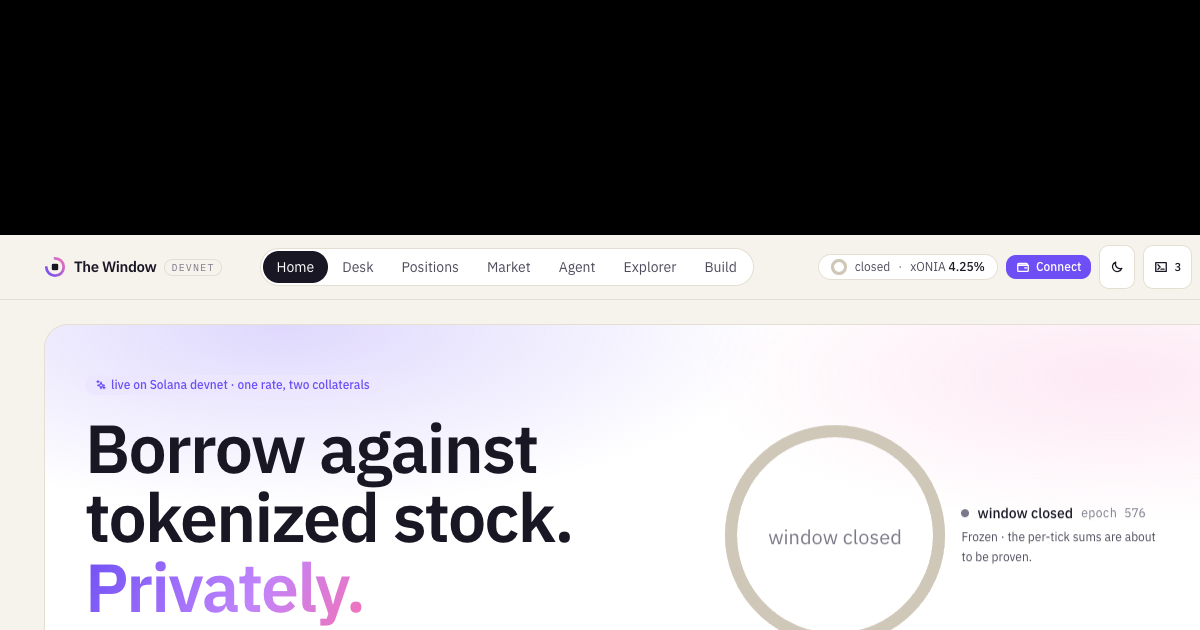
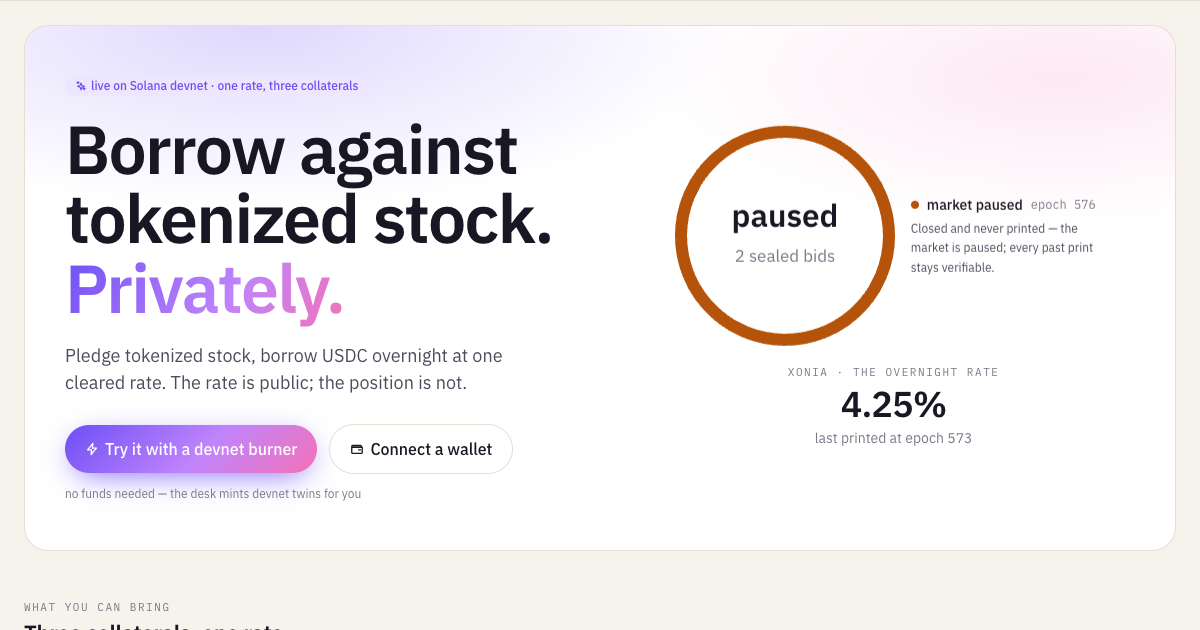
app: the calculator opens on a collateral the chain would take
A first-time visitor's first quote was against listings[0], which today is the Pyth-marked TSLAx —
refused, because Pyth's own account for that feed is a week stale. So the calculator computed a loan
nobody could take, under its own warning saying so. It now opens on the first listing whose mark is
inside its age limit, and falls back to the first when none is. The refused listings stay in the
picker and the schedule above still states every verdict; nothing is hidden, the default is just
useful.

The link preview is now taken at the Open Graph frame itself — a 1200x630 viewport, header scrolled
away — rather than cropped out of a taller screenshot, which had clipped the headline. The driver
lives in scripts/smoke/og.mjs beside the other screenshot drivers, because the hero will change
again.

diff --git a/app/src/features/home/BorrowCalculator.test.tsx b/app/src/features/home/BorrowCalculator.test.tsx
@@ -70,3 +70,37 @@ describe("the borrow calculator", () => {
     expect(t).toContain("past its age limit — the chain would refuse it right now");
   });
 });
+
+describe("which collateral it opens on", () => {
+  // A schedule where the first listing's mark is a week old — the shape the desk is actually in
+  // while Pyth's own account for that feed sits stale.
+  const three = [
+    { ...listings[0], key: "mock_tsla", symbol: "TSLAx-mock" },
+    { ...listings[0], key: "prestocks_anthropic", symbol: "ANTHROPIC-mock", haircutBps: 20000n },
+    { ...listings[0], key: "xstocks_tslax", symbol: "TSLAx-xs" },
+  ];
+  const viewThree = (prices: unknown[]) =>
+    render(
+      <BorrowCalculator
+        listings={three as unknown as Parameters<typeof BorrowCalculator>[0]["listings"]}
+        prices={prices as unknown as Parameters<typeof BorrowCalculator>[0]["prices"]}
+        lastRateTick={8}
+        onStart={vi.fn()}
+      />,
+    ).container.textContent ?? "";
+
+  it("opens on a collateral the chain would accept, not merely the first one", () => {
+    slot.mockReturnValue({ data: 1000 });
+    const t = viewThree([price({ publishTime: BigInt(now - 604_800) }), price(), price()]);
+    // It used to open on listings[0] and quote a loan nobody could take, under its own warning.
+    expect(t).toContain("ANTHROPIC");
+    expect(t).not.toContain("would refuse it right now");
+  });
+
+  it("still opens on the first when none is acceptable, and says so", () => {
+    slot.mockReturnValue({ data: 1000 });
+    const stale = price({ publishTime: BigInt(now - 604_800) });
+    const t = viewThree([stale, stale, stale]);
+    expect(t).toContain("past its age limit — the chain would refuse it right now");
+  });
+});

diff --git a/app/src/features/home/BorrowCalculator.tsx b/app/src/features/home/BorrowCalculator.tsx
@@ -65,7 +65,18 @@ export function BorrowCalculator({
   lastRateTick: number | null;
   onStart: (key: string, usdc: number) => void;
 }) {
-  const [key, setKey] = useState(listings[0]?.key ?? "");
+  // Open on a collateral the chain would actually accept. Starting at listings[0] meant a first-time
+  // visitor's first quote was against a refused mark, under a warning saying the loan could not be
+  // made — a calculator that computes a loan nobody can take. The refused listings are still here,
+  // and the schedule above states every one of their verdicts.
+  const [key, setKey] = useState(() => {
+    const now = Math.floor(Date.now() / 1000);
+    const usable = listings.findIndex((l, n) => {
+      const p = prices?.[n];
+      return p ? Number(now) - Number(p.publishTime) <= l.maxPublishAgeSecs : false;
+    });
+    return listings[usable >= 0 ? usable : 0]?.key ?? "";
+  });
   const [amount, setAmount] = useState("1000");
   const i = Math.max(
     0,
